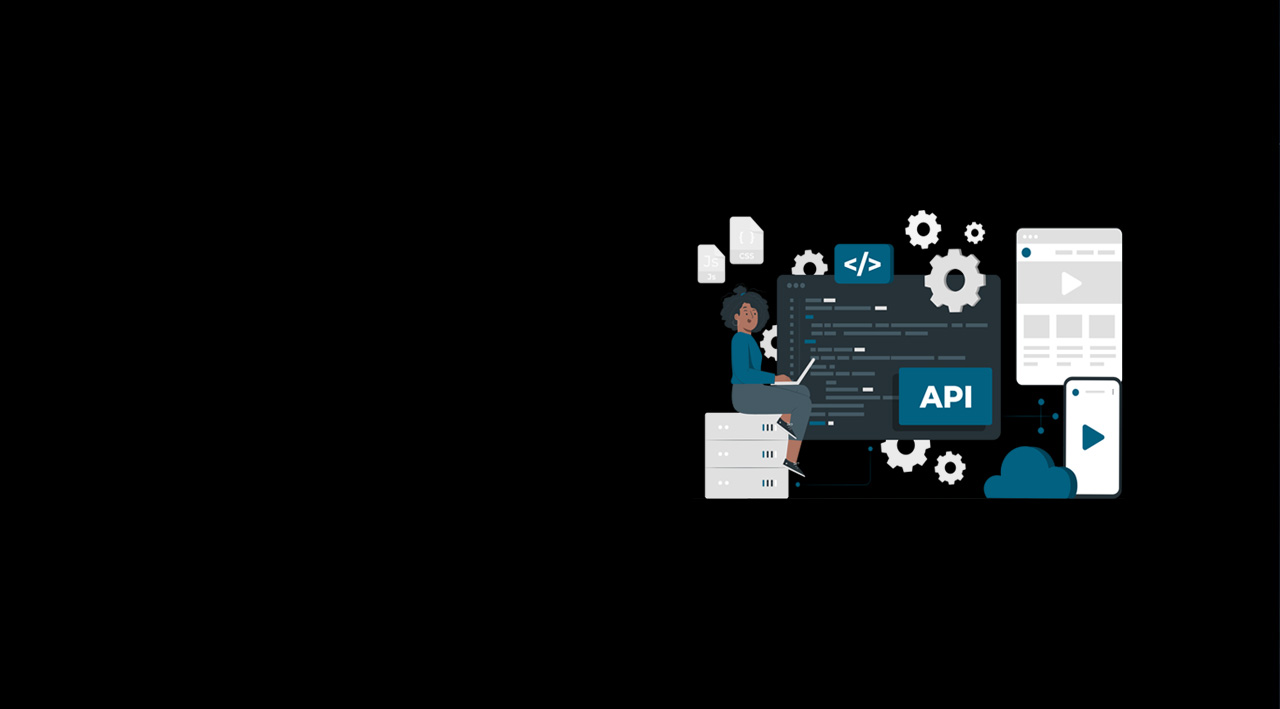
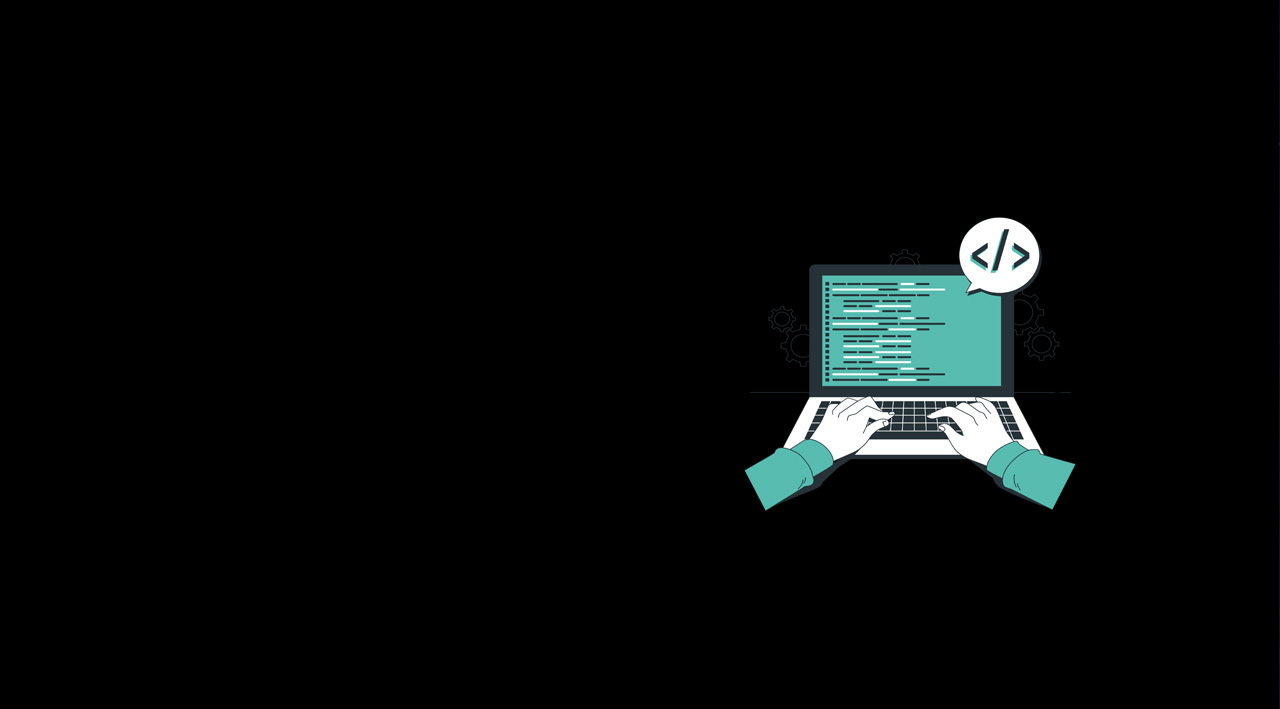
updating

Changed region(s): [[0.5312, 0.2793, 0.875, 0.7137]]

diff --git a/src/components/ContactForm/ContactForm.css b/src/components/ContactForm/ContactForm.css
@@ -8,6 +8,9 @@
 .contact-form .shape {
   width: 50%;
 }
+.contact-form .shape img {
+  padding: 50px;
+}
 
 .contact-form .form-sec {
   width: 50%;
@@ -32,7 +35,7 @@
 .contact-form form {
   display: flex;
   flex-direction: column;
-  align-items: center; /* Add this line to center the inputs */
+  align-items: center;
 }
 
 .contact-form button {

diff --git a/src/responsive.css b/src/responsive.css
@@ -43,6 +43,19 @@
   .personal-info {
     padding: 0;
   }
+  .contact-form {
+    padding: 0;
+    display: block;
+  }
+
+  .contact-form .form-sec {
+    width: 100%;
+    padding: 40px 0 40px 0;
+  }
+  .contact-form .shape {
+    width: 100%;
+    margin: auto;
+  }
 }
 
 @media (max-width: 641px) {

diff --git a/src/components/Main/Main.css b/src/components/Main/Main.css
@@ -2,7 +2,7 @@
   width: 100%;
   align-items: center;
   min-height: 100vh;
-  background: url("../../../public/images/header5.jpg") no-repeat;
+  background: url("../../../public/images/header6.jpg") no-repeat;
   background-attachment: fixed;
   background-size: cover;
   background-position: center;
